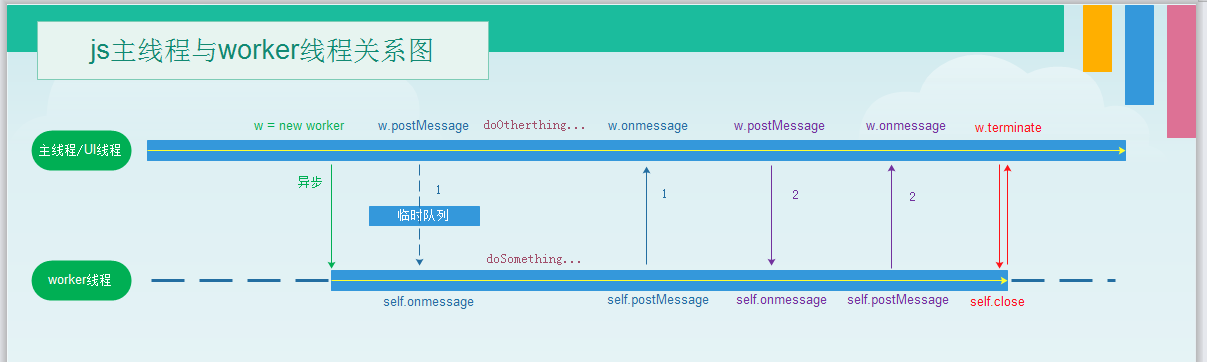
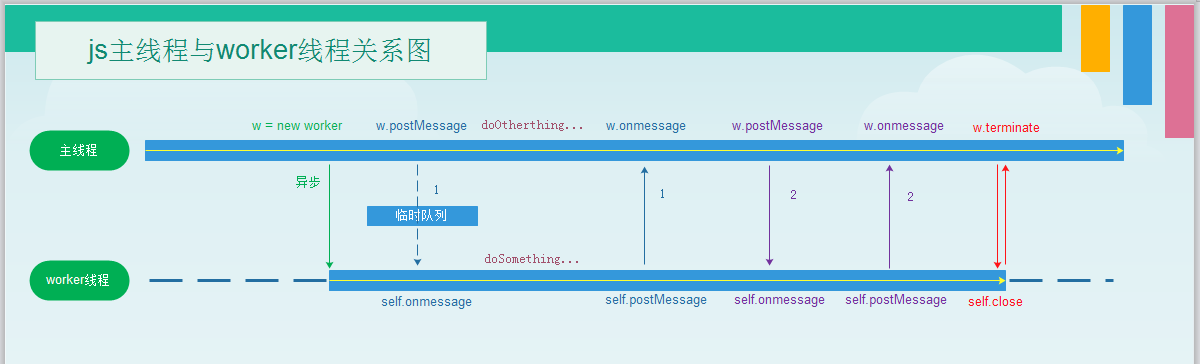
Site updated: 2019-04-11 15:46:57

diff --git a/2019/04/10/js-web-worker/index.html b/2019/04/10/js-web-worker/index.html
@@ -139,7 +139,7 @@
 <meta property="og:description" content="1.背景javascript采用的是单线程模型，随着时代的进步，单线程模型已无法充分发挥多核CPU计算机的计算能力，而web worker的出现为javascript创造了多线程环境，为未来javascript的发展提供一条光明大道。同时我们必须要充分了解web worker带来多线程编程的真正用意，真正理解它的运用场景，不要为了单纯地使用多线程而滥用web worker。javascript主线">
 <meta property="og:locale" content="zh-CN">
 <meta property="og:image" content="http://yoursite.com/assets/js-web-worker-1.png">
-<meta property="og:updated_time" content="2019-04-11T03:12:09.956Z">
+<meta property="og:updated_time" content="2019-04-11T07:44:46.553Z">
 <meta name="twitter:card" content="summary">
 <meta name="twitter:title" content="深入理解Web Worker">
 <meta name="twitter:description" content="1.背景javascript采用的是单线程模型，随着时代的进步，单线程模型已无法充分发挥多核CPU计算机的计算能力，而web worker的出现为javascript创造了多线程环境，为未来javascript的发展提供一条光明大道。同时我们必须要充分了解web worker带来多线程编程的真正用意，真正理解它的运用场景，不要为了单纯地使用多线程而滥用web worker。javascript主线">
@@ -465,7 +465,7 @@
                 
                   <span class="post-meta-item-text">更新于</span>
                 
-                <time title="修改时间：2019-04-11 11:12:09" itemprop="dateModified" datetime="2019-04-11T11:12:09+08:00">2019-04-11</time>
+                <time title="修改时间：2019-04-11 15:44:46" itemprop="dateModified" datetime="2019-04-11T15:44:46+08:00">2019-04-11</time>
               
             
           </span>
@@ -523,9 +523,9 @@
       
 
       
-        <h2 id="1-背景"><a href="#1-背景" class="headerlink" title="1.背景"></a>1.背景</h2><p>javascript采用的是单线程模型，随着时代的进步，单线程模型已无法充分发挥多核CPU计算机的计算能力，而web worker的出现为javascript创造了多线程环境，为未来javascript的发展提供一条光明大道。同时我们必须要充分了解web worker带来多线程编程的真正用意，真正理解它的运用场景，不要为了单纯地使用多线程而滥用web worker。javascript主线程（UI线程）创建worker线程，充分利用多核CPU计算资源，将一些<strong>计算任务</strong>分配给worker线程处理，减少因高负载计算而导致UI卡顿的问题，提升用户体验。</p>
+        <h2 id="1-背景"><a href="#1-背景" class="headerlink" title="1.背景"></a>1.背景</h2><p>javascript采用的是单线程模型，随着时代的进步，单线程模型已无法充分发挥多核CPU计算机的计算能力，而web worker的出现为javascript创造了多线程环境，为未来javascript的发展提供一条光明大道。同时我们必须要充分了解web worker带来多线程编程的真正用意，真正理解它的运用场景，不要为了单纯地使用多线程而滥用web worker。javascript主线程创建worker线程，充分利用多核CPU计算资源，将一些<strong>计算任务</strong>分配给worker线程处理，减少因高负载计算而导致UI卡顿的问题，提升用户体验。</p>
 <h2 id="2-基础"><a href="#2-基础" class="headerlink" title="2.基础"></a>2.基础</h2><h3 id="2-1-web-worker特性"><a href="#2-1-web-worker特性" class="headerlink" title="2.1 web worker特性"></a>2.1 web worker特性</h3><blockquote>
-<p>web worker有自己的特性，有些属性名称与window中的属性名称相同，但其功能只是后者特性的一个子集。<br>由于web worker线程的设计理念就是为减轻UI线程计算方面问题，因此跟UI渲染相关对象都不能读取。</p>
+<p>web worker有自己的特性，有些属性名称与window中的属性名称相同，但其功能只是后者特性的一个子集。<br>由于web worker线程的设计理念就是为减轻主线程计算方面问题，因此跟UI渲染相关对象都不能读取。</p>
 </blockquote>
 <h4 id="2-1-1-重要特性"><a href="#2-1-1-重要特性" class="headerlink" title="2.1.1 重要特性"></a>2.1.1 重要特性</h4><p>1）navigator对象（只有四个属性appName、appVersion、userAgent、platform）</p>
 <p>2）location对象（属性与window.location相同，但所有属性都是只读）</p>
@@ -613,7 +613,12 @@
 <h4 id="2-2-9-加载外部文件"><a href="#2-2-9-加载外部文件" class="headerlink" title="2.2.9 加载外部文件"></a>2.2.9 加载外部文件</h4><p>importScripts()引入其他脚本，接收0个或者多个url作为参数来引入资源<br><figure class="highlight js"><table><tr><td class="gutter"><pre><span class="line">1</span><br><span class="line">2</span><br><span class="line">3</span><br><span class="line">4</span><br></pre></td><td class="code"><pre><span class="line"><span class="comment">// my_worker.js</span></span><br><span class="line">importScripts() <span class="comment">// 什么都不引入</span></span><br><span class="line">importScripts(<span class="string">'file1.js'</span>) <span class="comment">// 加载一个文件</span></span><br><span class="line">importScripts(<span class="string">'file1.js'</span>, <span class="string">'file2.js'</span>) <span class="comment">// 加载两个文件</span></span><br></pre></td></tr></table></figure></p>
 <h4 id="2-2-10-完整小用例"><a href="#2-2-10-完整小用例" class="headerlink" title="2.2.10 完整小用例"></a>2.2.10 完整小用例</h4><figure class="highlight js"><table><tr><td class="gutter"><pre><span class="line">1</span><br><span class="line">2</span><br><span class="line">3</span><br><span class="line">4</span><br><span class="line">5</span><br><span class="line">6</span><br><span class="line">7</span><br><span class="line">8</span><br></pre></td><td class="code"><pre><span class="line"><span class="comment">// main.js</span></span><br><span class="line"><span class="keyword">if</span> (<span class="built_in">window</span>.Worker) &#123;</span><br><span class="line">  <span class="keyword">var</span> myworker = <span class="keyword">new</span> Worker(<span class="string">'my_worker.js'</span>)</span><br><span class="line">  myworker.postMessage(<span class="string">'Jack'</span>)</span><br><span class="line">  myworker.onmessage = <span class="function"><span class="keyword">function</span>(<span class="params">event</span>) </span>&#123;</span><br><span class="line">    <span class="built_in">console</span>.log(event.data) <span class="comment">// hello, Jack</span></span><br><span class="line">  &#125;</span><br><span class="line">&#125;</span><br></pre></td></tr></table></figure>
 <figure class="highlight js"><table><tr><td class="gutter"><pre><span class="line">1</span><br><span class="line">2</span><br><span class="line">3</span><br><span class="line">4</span><br><span class="line">5</span><br><span class="line">6</span><br></pre></td><td class="code"><pre><span class="line"><span class="comment">// my_worker.js</span></span><br><span class="line">self.onmessage = <span class="function"><span class="keyword">function</span>(<span class="params">event</span>) </span>&#123;</span><br><span class="line">  <span class="built_in">console</span>.log(event.data) <span class="comment">// Jack</span></span><br><span class="line">  self.postMessage(<span class="string">'hello, '</span>+ event.data)</span><br><span class="line">  self.close()</span><br><span class="line">&#125;</span><br></pre></td></tr></table></figure>
-<h2 id="3-进阶"><a href="#3-进阶" class="headerlink" title="3.进阶"></a>3.进阶</h2><p><img src="/assets/js-web-worker-1.png" alt=""></p>
+<p>以上介绍了worker的基本用法。当然，上述以on开头的函数，非IE浏览器都可以使用addEventListener替换，如slef.onmessage(function)等同于self.addEventListener(‘message’, function)</p>
+<h2 id="3-进阶"><a href="#3-进阶" class="headerlink" title="3.进阶"></a>3.进阶</h2><p>下面将进一步解析主线程与worker线程并行执行的关系流程，worker线程的数据通信方式，以及worker线程的实际应用场景。</p>
+<h3 id="3-1-主线程与worker线程"><a href="#3-1-主线程与worker线程" class="headerlink" title="3.1 主线程与worker线程"></a>3.1 主线程与worker线程</h3><p><img src="/assets/js-web-worker-1.png" alt=""></p>
+<p>如图，javascript主线程执行过程中，异步创建worker线程，然后主线程将继续执行其他任务。倘若worker线程还没有创建完成，主线程就直接通过worker.postMessage发送消息给Worker线程，该消息会进入一个临时消息队列中，等worker线程创建成功后，worker线程会从临时消息队列中接收消息，并处理。等处理完成后，通过self.postMessage将消息发送会主线程中。主线程接收到消息后，等待主线程处理完其他任务片段后，才会继续执行worker.onmessage中的回调函数。</p>
+<h3 id="3-1-数据通信"><a href="#3-1-数据通信" class="headerlink" title="3.1 数据通信"></a>3.1 数据通信</h3><p>事实上，Web Worker定义了两类工作线程，除了上述介绍的worker线程外（亦称专用线程），还有另外一种worker线程，称为共享线程Shared Worker。专用worker只能在一个页面所使用，而共享worker可以被多个页面所共享。创建共享worker的代码如下：<br><figure class="highlight js"><table><tr><td class="gutter"><pre><span class="line">1</span><br></pre></td><td class="code"><pre><span class="line"><span class="keyword">var</span> myworker = <span class="keyword">new</span> SharedWorker(<span class="string">'my_worker.js'</span>)</span><br></pre></td></tr></table></figure></p>
+<p>共享worker和专用worker它们的API基本上是一致的，除了名称不同以外，其实它们之间的最大区别在于它们的数据通信方式，而数据通信则是Web Worker中另外一项非常重要的内容，下面先介绍专用worker的通信方式。</p>
 <h2 id="4-总结"><a href="#4-总结" class="headerlink" title="4.总结"></a>4.总结</h2><h2 id="5-参考"><a href="#5-参考" class="headerlink" title="5.参考"></a>5.参考</h2><p>1.【MDN文档Web Worker API介绍】<a href="https://developer.mozilla.org/zh-CN/docs/Web/API/Worker/Worker" target="_blank" rel="noopener">https://developer.mozilla.org/zh-CN/docs/Web/API/Worker/Worker</a><br>2.【MDN文档Web Worker API使用】<a href="https://developer.mozilla.org/zh-CN/docs/Web/API/Web_Workers_API/Using_web_workers" target="_blank" rel="noopener">https://developer.mozilla.org/zh-CN/docs/Web/API/Web_Workers_API/Using_web_workers</a><br>2.【高性能JavaScript】第6章 快速响应的用户界面<br>3.【阮一峰的Web Worker 使用教程】<a href="http://www.ruanyifeng.com/blog/2018/07/web-worker.html" target="_blank" rel="noopener">http://www.ruanyifeng.com/blog/2018/07/web-worker.html</a><br>4.【腾讯AlloyTeam 深入理解Web Worker】<a href="http://www.alloyteam.com/2015/11/deep-in-web-worker/" target="_blank" rel="noopener">http://www.alloyteam.com/2015/11/deep-in-web-worker/</a></p>
 
       
@@ -874,7 +879,7 @@
             
 
             
-              <div class="post-toc-content"><ol class="nav"><li class="nav-item nav-level-2"><a class="nav-link" href="#1-背景"><span class="nav-number">1.</span> <span class="nav-text">1.背景</span></a></li><li class="nav-item nav-level-2"><a class="nav-link" href="#2-基础"><span class="nav-number">2.</span> <span class="nav-text">2.基础</span></a><ol class="nav-child"><li class="nav-item nav-level-3"><a class="nav-link" href="#2-1-web-worker特性"><span class="nav-number">2.1.</span> <span class="nav-text">2.1 web worker特性</span></a><ol class="nav-child"><li class="nav-item nav-level-4"><a class="nav-link" href="#2-1-1-重要特性"><span class="nav-number">2.1.1.</span> <span class="nav-text">2.1.1 重要特性</span></a></li><li class="nav-item nav-level-4"><a class="nav-link" href="#2-1-2-不能读取特性"><span class="nav-number">2.1.2.</span> <span class="nav-text">2.1.2 不能读取特性</span></a></li></ol></li><li class="nav-item nav-level-3"><a class="nav-link" href="#2-2-基本用法"><span class="nav-number">2.2.</span> <span class="nav-text">2.2 基本用法</span></a><ol class="nav-child"><li class="nav-item nav-level-4"><a class="nav-link" href="#2-2-1-语法"><span class="nav-number">2.2.1.</span> <span class="nav-text">2.2.1 语法</span></a></li><li class="nav-item nav-level-4"><a class="nav-link" href="#2-2-2-主线程创建worker"><span class="nav-number">2.2.2.</span> <span class="nav-text">2.2.2 主线程创建worker</span></a></li><li class="nav-item nav-level-4"><a class="nav-link" href="#2-2-3-主线程发送数据"><span class="nav-number">2.2.3.</span> <span class="nav-text">2.2.3 主线程发送数据</span></a></li><li class="nav-item nav-level-4"><a class="nav-link" href="#2-2-4-主线程接收数据"><span class="nav-number">2.2.4.</span> <span class="nav-text">2.2.4 主线程接收数据</span></a></li><li class="nav-item nav-level-4"><a class="nav-link" href="#2-2-5-worker线程接收数据"><span class="nav-number">2.2.5.</span> <span class="nav-text">2.2.5 worker线程接收数据</span></a></li><li class="nav-item nav-level-4"><a class="nav-link" href="#2-2-6-worker线程发送数据"><span class="nav-number">2.2.6.</span> <span class="nav-text">2.2.6 worker线程发送数据</span></a></li><li class="nav-item nav-level-4"><a class="nav-link" href="#2-2-7-终止worker"><span class="nav-number">2.2.7.</span> <span class="nav-text">2.2.7 终止worker</span></a></li><li class="nav-item nav-level-4"><a class="nav-link" href="#2-2-8-错误处理"><span class="nav-number">2.2.8.</span> <span class="nav-text">2.2.8 错误处理</span></a></li><li class="nav-item nav-level-4"><a class="nav-link" href="#2-2-9-加载外部文件"><span class="nav-number">2.2.9.</span> <span class="nav-text">2.2.9 加载外部文件</span></a></li><li class="nav-item nav-level-4"><a class="nav-link" href="#2-2-10-完整小用例"><span class="nav-number">2.2.10.</span> <span class="nav-text">2.2.10 完整小用例</span></a></li></ol></li></ol></li><li class="nav-item nav-level-2"><a class="nav-link" href="#3-进阶"><span class="nav-number">3.</span> <span class="nav-text">3.进阶</span></a></li><li class="nav-item nav-level-2"><a class="nav-link" href="#4-总结"><span class="nav-number">4.</span> <span class="nav-text">4.总结</span></a></li><li class="nav-item nav-level-2"><a class="nav-link" href="#5-参考"><span class="nav-number">5.</span> <span class="nav-text">5.参考</span></a></li></ol></div>
+              <div class="post-toc-content"><ol class="nav"><li class="nav-item nav-level-2"><a class="nav-link" href="#1-背景"><span class="nav-number">1.</span> <span class="nav-text">1.背景</span></a></li><li class="nav-item nav-level-2"><a class="nav-link" href="#2-基础"><span class="nav-number">2.</span> <span class="nav-text">2.基础</span></a><ol class="nav-child"><li class="nav-item nav-level-3"><a class="nav-link" href="#2-1-web-worker特性"><span class="nav-number">2.1.</span> <span class="nav-text">2.1 web worker特性</span></a><ol class="nav-child"><li class="nav-item nav-level-4"><a class="nav-link" href="#2-1-1-重要特性"><span class="nav-number">2.1.1.</span> <span class="nav-text">2.1.1 重要特性</span></a></li><li class="nav-item nav-level-4"><a class="nav-link" href="#2-1-2-不能读取特性"><span class="nav-number">2.1.2.</span> <span class="nav-text">2.1.2 不能读取特性</span></a></li></ol></li><li class="nav-item nav-level-3"><a class="nav-link" href="#2-2-基本用法"><span class="nav-number">2.2.</span> <span class="nav-text">2.2 基本用法</span></a><ol class="nav-child"><li class="nav-item nav-level-4"><a class="nav-link" href="#2-2-1-语法"><span class="nav-number">2.2.1.</span> <span class="nav-text">2.2.1 语法</span></a></li><li class="nav-item nav-level-4"><a class="nav-link" href="#2-2-2-主线程创建worker"><span class="nav-number">2.2.2.</span> <span class="nav-text">2.2.2 主线程创建worker</span></a></li><li class="nav-item nav-level-4"><a class="nav-link" href="#2-2-3-主线程发送数据"><span class="nav-number">2.2.3.</span> <span class="nav-text">2.2.3 主线程发送数据</span></a></li><li class="nav-item nav-level-4"><a class="nav-link" href="#2-2-4-主线程接收数据"><span class="nav-number">2.2.4.</span> <span class="nav-text">2.2.4 主线程接收数据</span></a></li><li class="nav-item nav-level-4"><a class="nav-link" href="#2-2-5-worker线程接收数据"><span class="nav-number">2.2.5.</span> <span class="nav-text">2.2.5 worker线程接收数据</span></a></li><li class="nav-item nav-level-4"><a class="nav-link" href="#2-2-6-worker线程发送数据"><span class="nav-number">2.2.6.</span> <span class="nav-text">2.2.6 worker线程发送数据</span></a></li><li class="nav-item nav-level-4"><a class="nav-link" href="#2-2-7-终止worker"><span class="nav-number">2.2.7.</span> <span class="nav-text">2.2.7 终止worker</span></a></li><li class="nav-item nav-level-4"><a class="nav-link" href="#2-2-8-错误处理"><span class="nav-number">2.2.8.</span> <span class="nav-text">2.2.8 错误处理</span></a></li><li class="nav-item nav-level-4"><a class="nav-link" href="#2-2-9-加载外部文件"><span class="nav-number">2.2.9.</span> <span class="nav-text">2.2.9 加载外部文件</span></a></li><li class="nav-item nav-level-4"><a class="nav-link" href="#2-2-10-完整小用例"><span class="nav-number">2.2.10.</span> <span class="nav-text">2.2.10 完整小用例</span></a></li></ol></li></ol></li><li class="nav-item nav-level-2"><a class="nav-link" href="#3-进阶"><span class="nav-number">3.</span> <span class="nav-text">3.进阶</span></a><ol class="nav-child"><li class="nav-item nav-level-3"><a class="nav-link" href="#3-1-主线程与worker线程"><span class="nav-number">3.1.</span> <span class="nav-text">3.1 主线程与worker线程</span></a></li><li class="nav-item nav-level-3"><a class="nav-link" href="#3-1-数据通信"><span class="nav-number">3.2.</span> <span class="nav-text">3.1 数据通信</span></a></li></ol></li><li class="nav-item nav-level-2"><a class="nav-link" href="#4-总结"><span class="nav-number">4.</span> <span class="nav-text">4.总结</span></a></li><li class="nav-item nav-level-2"><a class="nav-link" href="#5-参考"><span class="nav-number">5.</span> <span class="nav-text">5.参考</span></a></li></ol></div>
             
 
           </div>

diff --git a/index.html b/index.html
@@ -461,7 +461,7 @@
                 
                   <span class="post-meta-item-text">更新于</span>
                 
-                <time title="修改时间：2019-04-11 11:12:09" itemprop="dateModified" datetime="2019-04-11T11:12:09+08:00">2019-04-11</time>
+                <time title="修改时间：2019-04-11 15:44:46" itemprop="dateModified" datetime="2019-04-11T15:44:46+08:00">2019-04-11</time>
               
             
           </span>
@@ -514,9 +514,9 @@
       
         
           
-            <h2 id="1-背景"><a href="#1-背景" class="headerlink" title="1.背景"></a>1.背景</h2><p>javascript采用的是单线程模型，随着时代的进步，单线程模型已无法充分发挥多核CPU计算机的计算能力，而web worker的出现为javascript创造了多线程环境，为未来javascript的发展提供一条光明大道。同时我们必须要充分了解web worker带来多线程编程的真正用意，真正理解它的运用场景，不要为了单纯地使用多线程而滥用web worker。javascript主线程（UI线程）创建worker线程，充分利用多核CPU计算资源，将一些<strong>计算任务</strong>分配给worker线程处理，减少因高负载计算而导致UI卡顿的问题，提升用户体验。</p>
+            <h2 id="1-背景"><a href="#1-背景" class="headerlink" title="1.背景"></a>1.背景</h2><p>javascript采用的是单线程模型，随着时代的进步，单线程模型已无法充分发挥多核CPU计算机的计算能力，而web worker的出现为javascript创造了多线程环境，为未来javascript的发展提供一条光明大道。同时我们必须要充分了解web worker带来多线程编程的真正用意，真正理解它的运用场景，不要为了单纯地使用多线程而滥用web worker。javascript主线程创建worker线程，充分利用多核CPU计算资源，将一些<strong>计算任务</strong>分配给worker线程处理，减少因高负载计算而导致UI卡顿的问题，提升用户体验。</p>
 <h2 id="2-基础"><a href="#2-基础" class="headerlink" title="2.基础"></a>2.基础</h2><h3 id="2-1-web-worker特性"><a href="#2-1-web-worker特性" class="headerlink" title="2.1 web worker特性"></a>2.1 web worker特性</h3><blockquote>
-<p>web worker有自己的特性，有些属性名称与window中的属性名称相同，但其功能只是后者特性的一个子集。<br>由于web worker线程的设计理念就是为减轻UI线程计算方面问题，因此跟UI渲染相关对象都不能读取。</p>
+<p>web worker有自己的特性，有些属性名称与window中的属性名称相同，但其功能只是后者特性的一个子集。<br>由于web worker线程的设计理念就是为减轻主线程计算方面问题，因此跟UI渲染相关对象都不能读取。</p>
 </blockquote>
 <h4 id="2-1-1-重要特性"><a href="#2-1-1-重要特性" class="headerlink" title="2.1.1 重要特性"></a>2.1.1 重要特性</h4><p>1）navigator对象（只有四个属性appName、appVersion、userAgent、platform）</p>
 <p>2）location对象（属性与window.location相同，但所有属性都是只读）</p>
@@ -604,7 +604,12 @@
 <h4 id="2-2-9-加载外部文件"><a href="#2-2-9-加载外部文件" class="headerlink" title="2.2.9 加载外部文件"></a>2.2.9 加载外部文件</h4><p>importScripts()引入其他脚本，接收0个或者多个url作为参数来引入资源<br><figure class="highlight js"><table><tr><td class="gutter"><pre><span class="line">1</span><br><span class="line">2</span><br><span class="line">3</span><br><span class="line">4</span><br></pre></td><td class="code"><pre><span class="line"><span class="comment">// my_worker.js</span></span><br><span class="line">importScripts() <span class="comment">// 什么都不引入</span></span><br><span class="line">importScripts(<span class="string">'file1.js'</span>) <span class="comment">// 加载一个文件</span></span><br><span class="line">importScripts(<span class="string">'file1.js'</span>, <span class="string">'file2.js'</span>) <span class="comment">// 加载两个文件</span></span><br></pre></td></tr></table></figure></p>
 <h4 id="2-2-10-完整小用例"><a href="#2-2-10-完整小用例" class="headerlink" title="2.2.10 完整小用例"></a>2.2.10 完整小用例</h4><figure class="highlight js"><table><tr><td class="gutter"><pre><span class="line">1</span><br><span class="line">2</span><br><span class="line">3</span><br><span class="line">4</span><br><span class="line">5</span><br><span class="line">6</span><br><span class="line">7</span><br><span class="line">8</span><br></pre></td><td class="code"><pre><span class="line"><span class="comment">// main.js</span></span><br><span class="line"><span class="keyword">if</span> (<span class="built_in">window</span>.Worker) &#123;</span><br><span class="line">  <span class="keyword">var</span> myworker = <span class="keyword">new</span> Worker(<span class="string">'my_worker.js'</span>)</span><br><span class="line">  myworker.postMessage(<span class="string">'Jack'</span>)</span><br><span class="line">  myworker.onmessage = <span class="function"><span class="keyword">function</span>(<span class="params">event</span>) </span>&#123;</span><br><span class="line">    <span class="built_in">console</span>.log(event.data) <span class="comment">// hello, Jack</span></span><br><span class="line">  &#125;</span><br><span class="line">&#125;</span><br></pre></td></tr></table></figure>
 <figure class="highlight js"><table><tr><td class="gutter"><pre><span class="line">1</span><br><span class="line">2</span><br><span class="line">3</span><br><span class="line">4</span><br><span class="line">5</span><br><span class="line">6</span><br></pre></td><td class="code"><pre><span class="line"><span class="comment">// my_worker.js</span></span><br><span class="line">self.onmessage = <span class="function"><span class="keyword">function</span>(<span class="params">event</span>) </span>&#123;</span><br><span class="line">  <span class="built_in">console</span>.log(event.data) <span class="comment">// Jack</span></span><br><span class="line">  self.postMessage(<span class="string">'hello, '</span>+ event.data)</span><br><span class="line">  self.close()</span><br><span class="line">&#125;</span><br></pre></td></tr></table></figure>
-<h2 id="3-进阶"><a href="#3-进阶" class="headerlink" title="3.进阶"></a>3.进阶</h2><p><img src="/assets/js-web-worker-1.png" alt=""></p>
+<p>以上介绍了worker的基本用法。当然，上述以on开头的函数，非IE浏览器都可以使用addEventListener替换，如slef.onmessage(function)等同于self.addEventListener(‘message’, function)</p>
+<h2 id="3-进阶"><a href="#3-进阶" class="headerlink" title="3.进阶"></a>3.进阶</h2><p>下面将进一步解析主线程与worker线程并行执行的关系流程，worker线程的数据通信方式，以及worker线程的实际应用场景。</p>
+<h3 id="3-1-主线程与worker线程"><a href="#3-1-主线程与worker线程" class="headerlink" title="3.1 主线程与worker线程"></a>3.1 主线程与worker线程</h3><p><img src="/assets/js-web-worker-1.png" alt=""></p>
+<p>如图，javascript主线程执行过程中，异步创建worker线程，然后主线程将继续执行其他任务。倘若worker线程还没有创建完成，主线程就直接通过worker.postMessage发送消息给Worker线程，该消息会进入一个临时消息队列中，等worker线程创建成功后，worker线程会从临时消息队列中接收消息，并处理。等处理完成后，通过self.postMessage将消息发送会主线程中。主线程接收到消息后，等待主线程处理完其他任务片段后，才会继续执行worker.onmessage中的回调函数。</p>
+<h3 id="3-1-数据通信"><a href="#3-1-数据通信" class="headerlink" title="3.1 数据通信"></a>3.1 数据通信</h3><p>事实上，Web Worker定义了两类工作线程，除了上述介绍的worker线程外（亦称专用线程），还有另外一种worker线程，称为共享线程Shared Worker。专用worker只能在一个页面所使用，而共享worker可以被多个页面所共享。创建共享worker的代码如下：<br><figure class="highlight js"><table><tr><td class="gutter"><pre><span class="line">1</span><br></pre></td><td class="code"><pre><span class="line"><span class="keyword">var</span> myworker = <span class="keyword">new</span> SharedWorker(<span class="string">'my_worker.js'</span>)</span><br></pre></td></tr></table></figure></p>
+<p>共享worker和专用worker它们的API基本上是一致的，除了名称不同以外，其实它们之间的最大区别在于它们的数据通信方式，而数据通信则是Web Worker中另外一项非常重要的内容，下面先介绍专用worker的通信方式。</p>
 <h2 id="4-总结"><a href="#4-总结" class="headerlink" title="4.总结"></a>4.总结</h2><h2 id="5-参考"><a href="#5-参考" class="headerlink" title="5.参考"></a>5.参考</h2><p>1.【MDN文档Web Worker API介绍】<a href="https://developer.mozilla.org/zh-CN/docs/Web/API/Worker/Worker" target="_blank" rel="noopener">https://developer.mozilla.org/zh-CN/docs/Web/API/Worker/Worker</a><br>2.【MDN文档Web Worker API使用】<a href="https://developer.mozilla.org/zh-CN/docs/Web/API/Web_Workers_API/Using_web_workers" target="_blank" rel="noopener">https://developer.mozilla.org/zh-CN/docs/Web/API/Web_Workers_API/Using_web_workers</a><br>2.【高性能JavaScript】第6章 快速响应的用户界面<br>3.【阮一峰的Web Worker 使用教程】<a href="http://www.ruanyifeng.com/blog/2018/07/web-worker.html" target="_blank" rel="noopener">http://www.ruanyifeng.com/blog/2018/07/web-worker.html</a><br>4.【腾讯AlloyTeam 深入理解Web Worker】<a href="http://www.alloyteam.com/2015/11/deep-in-web-worker/" target="_blank" rel="noopener">http://www.alloyteam.com/2015/11/deep-in-web-worker/</a></p>
 
           
